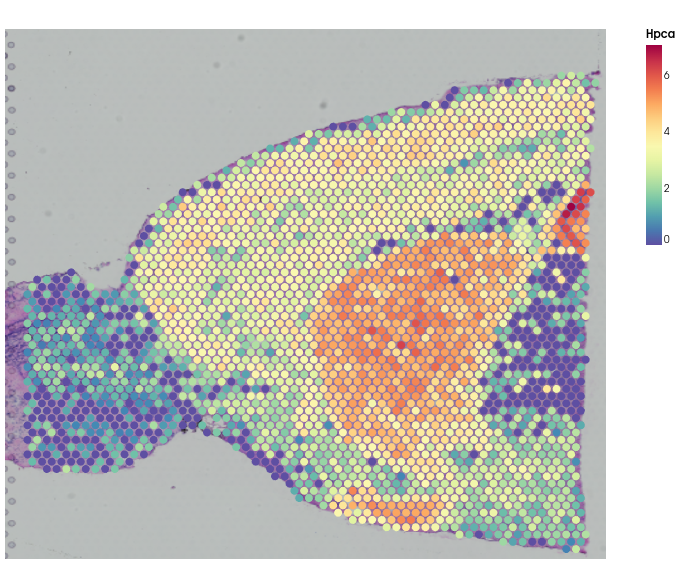
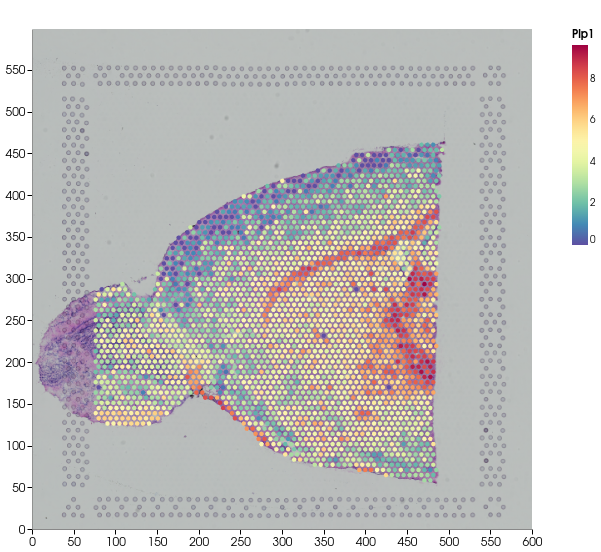
add preview for spatial categorical

diff --git a/src/pages/experiments/[experimentId]/plots-and-tables/spatial-categorical/index.jsx b/src/pages/experiments/[experimentId]/plots-and-tables/spatial-categorical/index.jsx
@@ -8,6 +8,7 @@ import {
   Collapse,
   Select,
   Skeleton,
+  Form,
 } from 'antd';
 import MultiViewPlotGrid from 'components/plots/MultiViewPlotGrid';
 
@@ -41,8 +42,7 @@ const SpatialCategoricalPage = ({ experimentId }) => {
   const [selectedPlotUuid, setSelectedPlotUuid] = useState(`${plotUuid}-0`);
   const [updateAll, setUpdateAll] = useState(true);
 
-  console.log('config!!!');
-  console.log(config);
+  console.log(plotConfigs);
 
   useEffect(() => {
     dispatch(loadCellSets(experimentId));
@@ -78,7 +78,7 @@ const SpatialCategoricalPage = ({ experimentId }) => {
       controls: ['axesWithRanges'],
     },
     {
-      panelTitle: 'Colour Inversion',
+      panelTitle: 'Colour inversion',
       controls: ['colourInversion'],
     },
     {
@@ -120,7 +120,7 @@ const SpatialCategoricalPage = ({ experimentId }) => {
 
   const renderExtraPanels = () => (
     <>
-      <Panel header='View Multiple Plots' key='view-multiple-plots' collapsible={false}>
+      <Panel header='View multiple plots' key='view-multiple-plots' collapsible={false}>
         <MultiViewPlotEditor
           plotType={plotType}
           experimentId={experimentId}
@@ -140,18 +140,20 @@ const SpatialCategoricalPage = ({ experimentId }) => {
         />
       </Panel>
       <Panel header='Group by' key='group-by'>
-        <p>
-          Select the cell set category you would like to group cells by.
-        </p>
+        <p><strong>Cell Set For Embedding:</strong></p>
         {config ? (
-          <Select
-            labelInValue
-            style={{ width: '100%' }}
-            placeholder='Select cell set...'
-            value={{ value: config.selectedCellSet }}
-            options={generateGroupByOptions()}
-            onChange={({ value }) => updatePlotWithChanges({ selectedCellSet: value })}
-          />
+          <>
+            <Form.Item>
+              <Select
+                labelInValue
+                style={{ width: '100%' }}
+                placeholder='Select cell set...'
+                value={config.selectedCellSet}
+                options={generateGroupByOptions()}
+                onChange={({ value }) => updatePlotWithChanges({ selectedCellSet: value })}
+              />
+            </Form.Item>
+          </>
         ) : <Skeleton.Input style={{ width: '100%' }} active />}
       </Panel>
     </>

diff --git a/src/pages/experiments/[experimentId]/plots-and-tables/spatial-feature/index.jsx b/src/pages/experiments/[experimentId]/plots-and-tables/spatial-feature/index.jsx
@@ -56,11 +56,11 @@ const SpatialFeaturePage = ({ experimentId }) => {
 
   const plotStylingConfig = [
     {
-      panelTitle: 'Expression Values',
+      panelTitle: 'Expression values',
       controls: ['expressionValuesCapping'],
     },
     {
-      panelTitle: 'Main Schema',
+      panelTitle: 'Main schema',
       controls: ['dimensions'],
       children: [
         {
@@ -74,7 +74,7 @@ const SpatialFeaturePage = ({ experimentId }) => {
       ],
     },
     {
-      panelTitle: 'Axes and Margins',
+      panelTitle: 'Axes and margins',
       controls: ['axesWithRanges'],
     },
     {
@@ -126,14 +126,14 @@ const SpatialFeaturePage = ({ experimentId }) => {
 
   const renderExtraPanels = () => (
     <>
-      <Panel header='Gene Selection' key='gene-selection'>
+      <Panel header='Gene selection' key='gene-selection'>
         <GeneSearchBar
           allowMultiple={false}
           onSelect={changeSelectedPlotGene}
           buttonText='Submit'
         />
       </Panel>
-      <Panel header='View Multiple Plots' key='view-multiple-plots' collapsible={false}>
+      <Panel header='View multiple plots' key='view-multiple-plots' collapsible={false}>
         <MultiViewEditor
           shownGenes={shownGenes}
           plotType={plotType}
@@ -145,7 +145,7 @@ const SpatialFeaturePage = ({ experimentId }) => {
           setUpdateAll={setUpdateAll}
         />
       </Panel>
-      <Panel header='Select Data' key='select-data'>
+      <Panel header='Select data' key='select-data'>
         <SelectData
           config={config}
           plotType={plotType}

diff --git a/src/redux/reducers/componentConfig/initialState.js b/src/redux/reducers/componentConfig/initialState.js
@@ -71,7 +71,12 @@ const spatialCategoricalInitialConfig = {
   },
   fontStyle: fontStyleBaseState,
   colour: colourBaseState,
-  marker: markerBaseState,
+  marker: {
+    ...markerBaseState,
+    size: 20,
+    outline: false,
+    opacity: 10,
+  },
   labels: {
     ...labelBaseState,
     enabled: false,
@@ -129,7 +134,7 @@ const spatialFeatureInitialConfig = {
     xAxisText: null,
     yAxisText: null,
     defaultValues: ['x', 'y'],
-    offset: 10,
+    offset: 0,
   },
   axesRanges: {
     ...axesRangesBaseState,
@@ -146,12 +151,13 @@ const spatialFeatureInitialConfig = {
   fontStyle: fontStyleBaseState,
   colour: {
     ...colourBaseState,
-    gradient: 'plasma',
+    gradient: 'spectral',
   },
   marker: {
     ...markerBaseState,
-    size: 10,
+    size: 20,
     outline: false,
+    opacity: 10,
   },
   labels: labelBaseState,
   logEquation: 'datum.expression*1',

diff --git a/src/components/plots/SpatialCategoricalPlot.jsx b/src/components/plots/SpatialCategoricalPlot.jsx
@@ -168,15 +168,6 @@ const SpatialCategoricalPlot = (props) => {
         cellSetLegendsData,
       } = generateData(cellSets, selectedSample, config.selectedCellSet, embeddingData);
 
-      console.log('plotData!!!');
-      console.log(plotData);
-      console.log(cellSetLegendsData);
-      const cellSetKeys = plotData.map(({ cellSetKey }) => cellSetKey);
-      console.log([...new Set(cellSetKeys)]);
-
-      const filteredItems = plotData.filter((item) => item.cellSetKey === undefined);
-      console.log(filteredItems);
-
       setPlotSpec(generateSpec(config, EMBEDDING_TYPE, imageUrls[selectedSample], plotData, cellSetLegendsData));
     }
   }, [config, cellSets, embeddingData, config, imageUrls, selectedSample]);

diff --git a/src/components/plots/styling/MultiViewPlotEditor.jsx b/src/components/plots/styling/MultiViewPlotEditor.jsx
@@ -41,9 +41,6 @@ const MultiViewPlotEditor = (props) => {
   const multiViewPlotUuids = multiViewConfig?.plotUuids;
   const plotConfigs = useSelector(getPlotConfigs(multiViewConfig?.plotUuids));
 
-  console.log('plotConfigs!!!');
-  console.log(plotConfigs);
-
   const selectedConfig = plotConfigs[selectedPlotUuid];
 
   const renderUuidOptions = (uuids) => {
@@ -165,9 +162,6 @@ const MultiViewPlotEditor = (props) => {
       </Space>
     );
   };
-
-  console.log('multiViewPlotUuids!!!');
-  console.log(multiViewPlotUuids);
 
   const treeData = multiViewPlotUuids.map((plotUuid, index) => (
     { key: index, title: renderTitle(index) }

diff --git a/src/components/plots/CategoricalEmbeddingPlot.jsx b/src/components/plots/CategoricalEmbeddingPlot.jsx
@@ -56,10 +56,6 @@ const CategoricalEmbeddingPlot = (props) => {
         cellSetLegendsData,
       } = generateData(cellSets, config.selectedSample, config.selectedCellSet, embeddingData);
 
-      console.log('plotData!!!');
-      console.log(plotData);
-      console.log(embeddingData);
-
       setPlotSpec(generateSpec(config, embeddingSettings?.method, plotData, cellSetLegendsData));
     }
   }, [config, cellSets, embeddingData, config]);

diff --git a/src/components/data-processing/ConfigureEmbedding/ConfigureEmbedding.jsx b/src/components/data-processing/ConfigureEmbedding/ConfigureEmbedding.jsx
@@ -65,7 +65,7 @@ const ConfigureEmbedding = (props) => {
 
   const categoricalEmbStylingControls = [
     {
-      panelTitle: 'Colour Inversion',
+      panelTitle: 'Colour inversion',
       controls: ['colourInversion'],
       footer: <Alert
         message='Changing plot colours is not available here. Use the Cell sets and Metadata tool in Data Exploration to customise cell set and metadata colours'

diff --git a/src/utils/plotSpecs/generateSpatialCategoricalSpec.js b/src/utils/plotSpecs/generateSpatialCategoricalSpec.js
@@ -7,9 +7,6 @@ const paddingSize = 5;
 const generateSpec = (config, method, imageData, plotData, cellSetLegendsData) => {
   const { imageUrl, imageWidth, imageHeight } = imageData;
 
-  console.log('cellSetLegendsData!!!');
-  console.log(cellSetLegendsData);
-
   const xScaleDomain = config.axesRanges.xAxisAuto
     ? [0, imageWidth]
     : [config.axesRanges.xMin, config.axesRanges.xMax];

diff --git a/src/components/plots/PlotsTablesContainer.jsx b/src/components/plots/PlotsTablesContainer.jsx
@@ -51,7 +51,7 @@ const plots = [
       },
       {
         name: plotNames.SPATIAL_CATEGORICAL,
-        image: '/static/media/embeddingCategorical.png',
+        image: '/static/media/spatialCategorical.png',
         key: 'spatial-categorical-key',
         link: 'spatial-categorical',
       },

diff --git a/src/pages/experiments/[experimentId]/plots-and-tables/embedding-categorical/index.jsx b/src/pages/experiments/[experimentId]/plots-and-tables/embedding-categorical/index.jsx
@@ -89,7 +89,7 @@ const EmbeddingCategoricalPage = ({ experimentId }) => {
       controls: ['axesWithRanges'],
     },
     {
-      panelTitle: 'Colour Inversion',
+      panelTitle: 'Colour inversion',
       controls: ['colourInversion'],
     },
     {

diff --git a/src/components/plots/styling/embedding-continuous/SelectData.jsx b/src/components/plots/styling/embedding-continuous/SelectData.jsx
@@ -8,7 +8,7 @@ import {
   Radio,
 } from 'antd';
 
-import { spatialPlotTypes } from 'utils/constants';
+import { spatialPlotTypes, plotUuids } from 'utils/constants';
 
 import { metadataKeyToName } from 'utils/data-management/metadataUtils';
 
